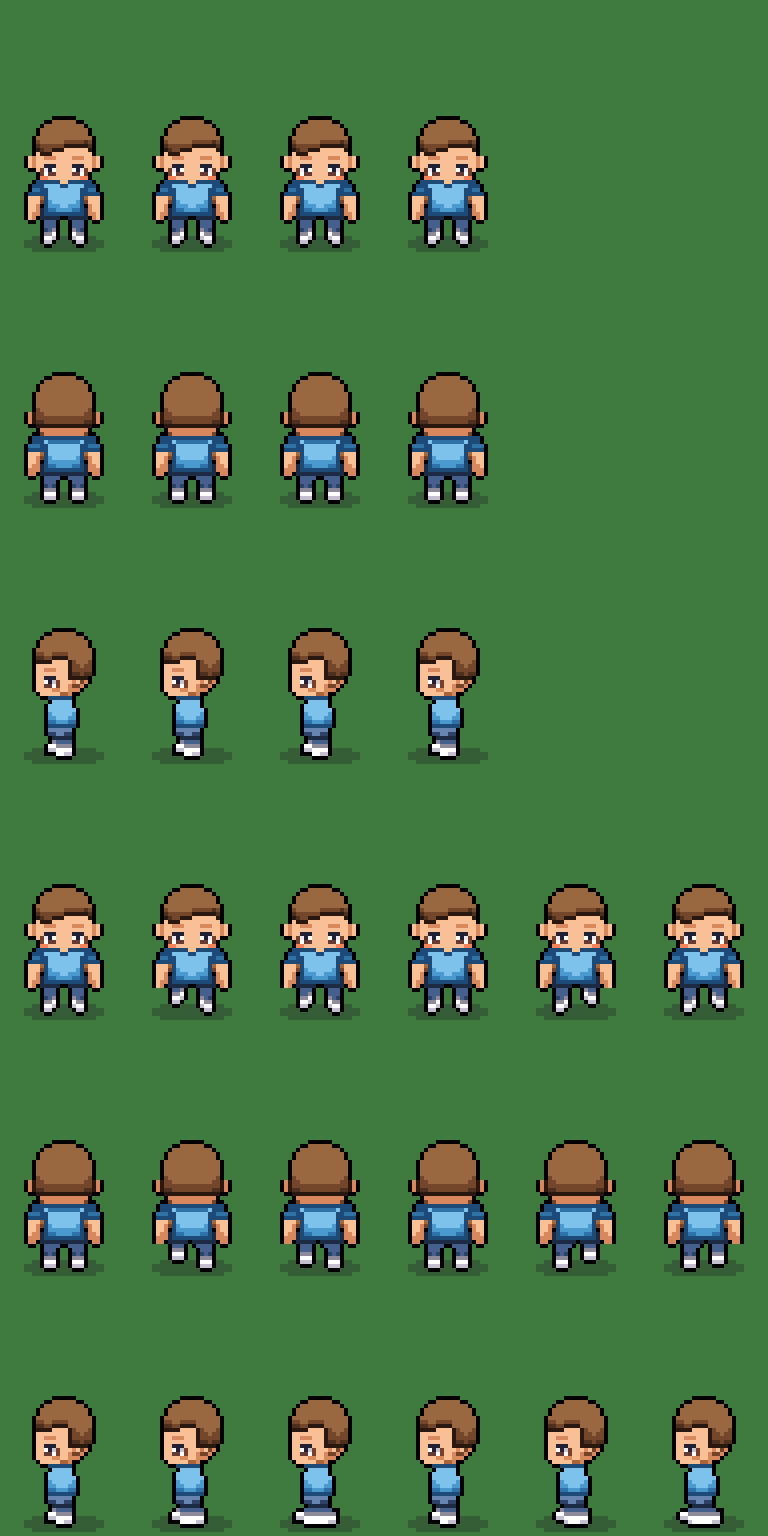
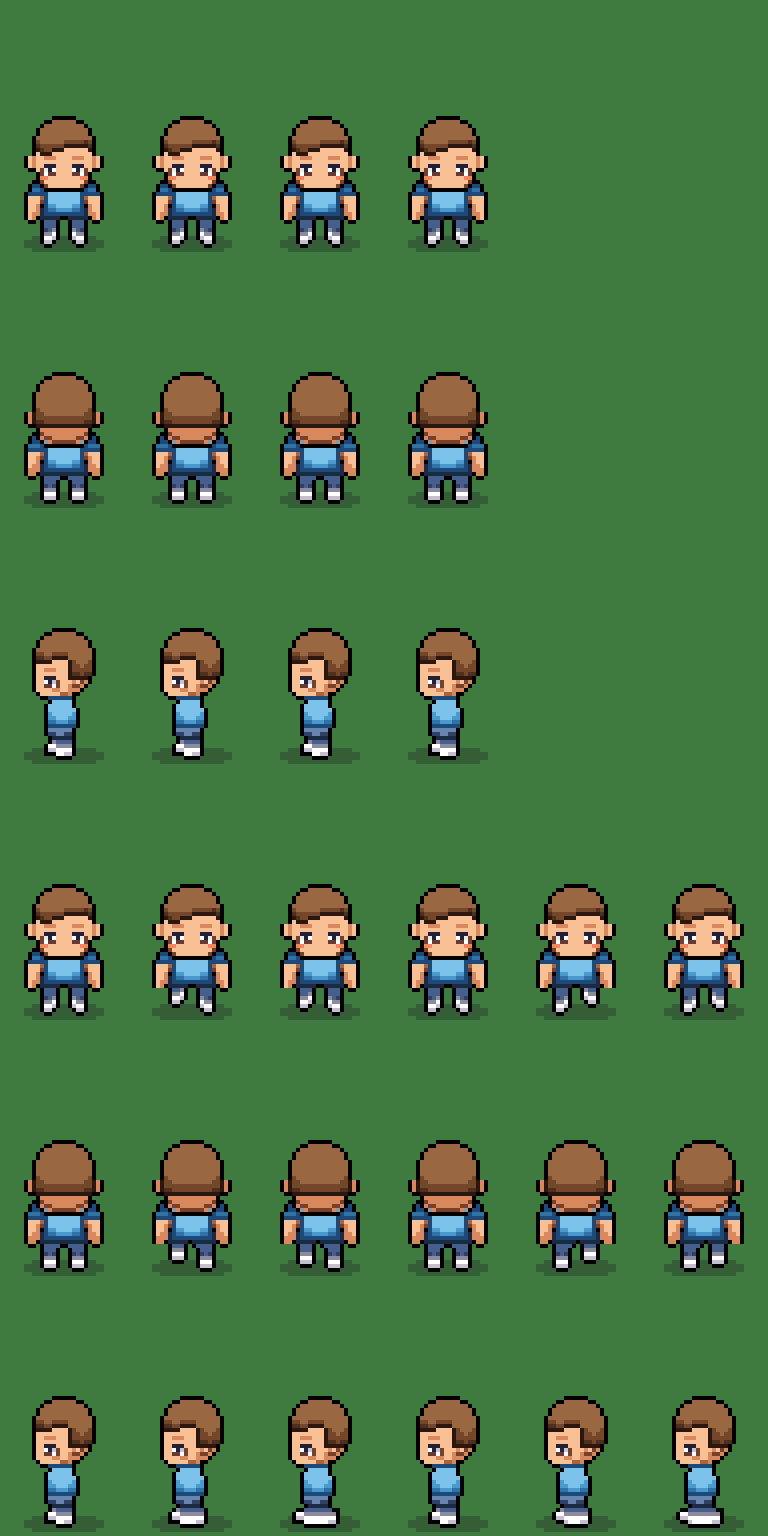
Characters: restore the chin and oval jaw
The reference chin/jaw lives in rows 45-46 (middle columns, framed by the dark
jaw pixels). Those rows were treated as torso, so every shirt covered the chin
and the head ended flat at the cheeks. They now belong to the head layer
(drawn above clothing), and shirts add the chin's cast shadow on row 47.

Claude-Session: https://claude.ai/code/session_01AuTfW4RY5hqwpF1mFtvoZZ

diff --git a/scripts/gen-placeholders.ts b/scripts/gen-placeholders.ts
@@ -9,7 +9,7 @@ import fs from "node:fs";
 import path from "node:path";
 import { fileURLToPath } from "node:url";
 import { Canvas, Region, rng, type Ramp4 } from "./lib/pixel.js";
-import { pose, HEAD_BOTTOM, LEG_TOP, LEG_SPLIT_X, type Pose, type R } from "./lib/pose.js";
+import { pose, isChin, HEAD_BOTTOM, LEG_TOP, LEG_SPLIT_X, type Pose, type R } from "./lib/pose.js";
 import {
   ANIMS, ANIM_ORDER, FRAME_H, FRAME_W, SHEET_DIRS, SHEET_H, SHEET_W, TILE, sheetRow,
   type AnimName, type SheetDir,
@@ -120,7 +120,7 @@ function loadBase(): Record<SheetDir, { body: Canvas; head: Canvas; face: Canvas
         const h = hexAt(strip, i * FRAME_W + x, y);
         if (!h) continue;
         const skin = REF_SKIN.indexOf(h);
-        const isHead = y <= HEAD_BOTTOM[dir];
+        const isHead = y <= HEAD_BOTTOM[dir] || isChin(dir, x, y);
         const target = isHead ? head : body;
         if (isHead && FACE_COLORS.has(h)) {
           face.set(x, y, h);
@@ -396,9 +396,9 @@ function torsoDetail(f: Frame, r: Region) {
   const inner = (x: number, y: number) => r.has(x - 1, y) && r.has(x + 1, y) && r.has(x, y - 1) && r.has(x, y + 1);
   const y0 = 45 + f.p.m.bodyDy;
   if (f.dir === "up") {
-    f.detail(r, -2, (x, y) => inner(x, y) && y <= y0 + 1 && Math.abs(x + 0.5 - 16) <= 4);
+    f.detail(r, -2, (x, y) => inner(x, y) && y === y0 + 2 && Math.abs(x + 0.5 - 16) <= 4); // under the nape
   } else if (f.dir === "down") {
-    f.detail(r, -1, (x, y) => inner(x, y) && y === y0 && Math.abs(x + 0.5 - 16) <= 5);
+    f.detail(r, -1, (x, y) => inner(x, y) && y === y0 + 2 && Math.abs(x + 0.5 - 16) <= 4); // chin cast shadow
   } else {
     f.detail(r, -1, (x, y) => inner(x, y) && y <= y0 + 1 && x <= 15);
   }

diff --git a/scripts/lib/pose.ts b/scripts/lib/pose.ts
@@ -28,6 +28,16 @@ export const MOTION = {
 export const LEG_TOP: Record<SheetDir, number> = { down: 55, up: 55, left: 57 };
 /** Rows at or above this belong to the head (idle bob). */
 export const HEAD_BOTTOM: Record<SheetDir, number> = { down: 44, up: 44, left: 45 };
+/**
+ * Chin/jaw (front) and nape (back) extend below HEAD_BOTTOM in the middle columns:
+ * row 45 cols 10–21, row 46 cols 11–20 (the dark jaw pixels frame the chin). They belong to the head
+ * layer so clothing never covers the chin.
+ */
+export function isChin(dir: SheetDir, x: number, y: number): boolean {
+  if (dir === "left") return false;
+  return (y === 45 && x >= 10 && x <= 21) || (y === 46 && x >= 11 && x <= 20);
+}
+
 /** Front/back: columns < this are the screen-left leg. */
 export const LEG_SPLIT_X = 16;
 

diff --git a/CLAUDE.md b/CLAUDE.md
@@ -37,7 +37,7 @@ Full spec: `docs/spec.md`. Read it before changing anything in `shared/src/spec.
 - Base body = `art/characters/reference/base_body.png` (down / up / left, 96×64). Idle and walk frames are derived from it by the shared motion model in `scripts/lib/pose.ts`. **All clothing drawers use `pose()` so they move with the body.**
 - Items: `art/characters/items.json` (source) → copied to `client/public/assets/characters/items.json`. An item = slot + parts (layer + sheet) + channels (+ optional `unlock`).
 - Layer draw order per direction: `LAYER_ORDER` in `shared/src/avatar.ts` (facing up, back layers move in front).
-- The base body is split into `body` (torso/limbs) and `head` layers; `head` is drawn above top/outerwear so clothing never covers the chin.
+- The base body is split into `body` (torso/limbs) and `head` layers; `head` is drawn above top/outerwear so clothing never covers the chin. The chin/jaw extends below the head rows in the middle columns (`isChin` in `scripts/lib/pose.ts`: row 45 cols 10–21, row 46 cols 11–20) and is part of the head layer; shirts put the chin's cast shadow on row 47.
 - The head is an oval (reference silhouette). Hair and headwear are cut from that silhouette (`fromHead`) and must not grow outside it — otherwise the head reads as round. Use `f.headReg()` for them: black outline only on the outer silhouette, the ramp's dark shade where hair meets skin (no black line across the forehead).
 - Shading = the reference's cel shading (`volume: true` in `Region.paint`): one flat lit shade, a curved terminator (mid shade starts ~55% down at the sides, lower toward the center), darkest shade only in bottom corners; legs one shade darker (`dim`). Clothing is cut from the animated body silhouette (`fromBody`), sleeves are separate outlined shapes, edges meeting skin are soft. Details are limited to the head's cast shadow and arm/torso separation — no strands or noise.
 - Compositor bakes each avatar once into a single texture (`client/src/game/avatar/compositor.ts`), cached by appearance.
